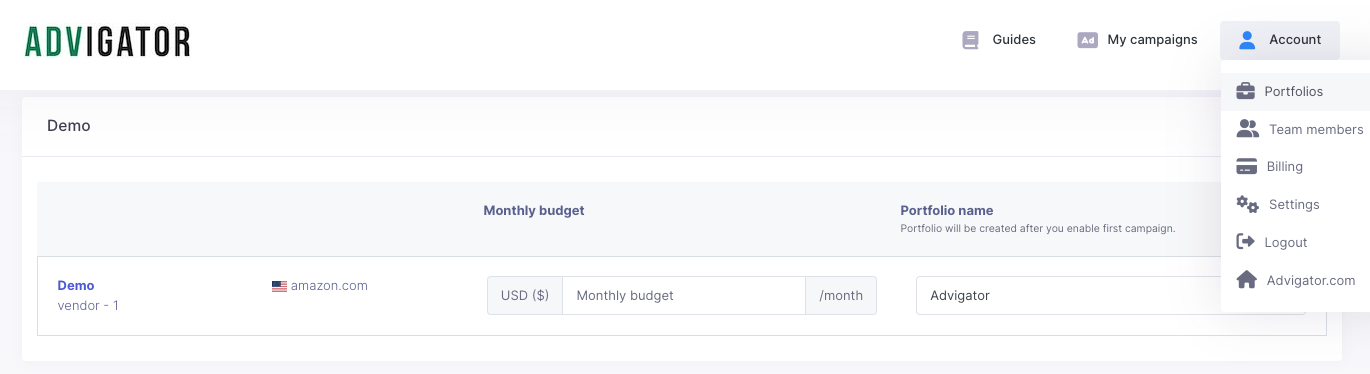
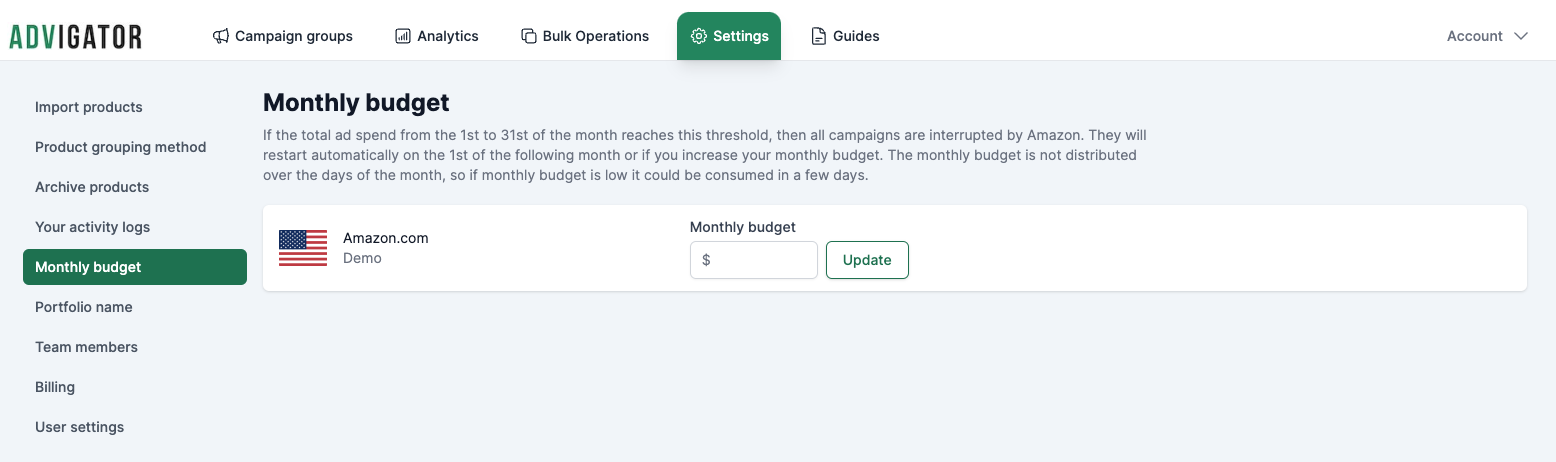
new design

diff --git a/src/components/Layout.jsx b/src/components/Layout.jsx
@@ -53,6 +53,7 @@ const navigation = [
       { title: 'No checkbox for SB', href: '/docs/faq/brand-registry' },
       { title: 'ACoS vs target ACoS', href: '/docs/faq/acos-vs-target' },
       { title: 'Miscellaneous', href: '/docs/faq/miscellaneous' },
+      { title: 'Design migration', href: '/docs/faq/design-migration' },
     ],
   },
   {

diff --git a/src/pages/docs/faq/design-migration.md b/src/pages/docs/faq/design-migration.md
@@ -1,0 +1,51 @@
+---
+title: New design guide
+---
+
+In February 2023 we redesigned the user interface (UI). Here is a guide of main changes:
+
+## Campaigns
+
+In campaigns you can change the name of the campaigns shown in Amazon and how the daily budget of the campaign group is distributed to the sub campaigns. 
+By default it is "Auto" which means it is efficiently distributed to minimize time out of budget. You may want to change it rarely and the default settings should be fine in most cases.
+
+### Before
+![Campaigns](/images/faq/redesign/old_campaigns.png) 
+
+### After
+![Campaigns](/images/faq/redesign/new_campaigns.png) 
+
+## Products
+
+Under "SKUs" you used to see the list of sponsored ASINs in the group. 
+We moved it under the product image because it was confusing to many users to see only a variant image. It wasn't clear it's a product group. The shown image is selected randomly among all products. 
+This is also rare that need to be changed. You can keep all products active. Products without inventory or ineligible do not generate traffic even if you leave them active.
+
+### Before
+![Products old](/images/faq/redesign/old_products.png) 
+
+### After
+![Products new](/images/faq/redesign/new_products.png) 
+
+
+## Sync catalog
+
+This action is for importing and updating the catalog. You should use it after you add a new product or make major changes to parent-child relationships or categories. 
+It has been moved under Settings > Imports products.
+
+### Before
+![Import old](/images/faq/redesign/old_sync.png) 
+
+### After
+![ProduImportcts new](/images/faq/redesign/new_sync.png) 
+
+
+## Creative Ads
+
+The link to create or edit a creative now appears below the activation checkbox. For example, if you activate "Sponsored Brand" or "Sponsored Display" you will see "edit creative" to upload a new image or replace a previous one.
+
+### Before
+![creative old](/images/faq/redesign/old_creative.png) 
+
+### After
+![creative new](/images/faq/redesign/new_creative.png) 

diff --git a/src/pages/docs/creative-ads/sponsored-brand.md b/src/pages/docs/creative-ads/sponsored-brand.md
@@ -13,11 +13,7 @@ This is an example of a [Sponsored Brand](https://advertising.amazon.com/en-us/s
 
 Let's start by enabling the "Sponsored Brand" format.
 
-![Activate Sponsored Brand in Advigator](/images/creative-ads/sponsored-brand/checkbox.png)
-
-then go to Creative Ads > Add Sponsored Brand
-
-![Activate Sponsored Brand creative ad in Advigator](/images/creative-ads/sponsored-brand/creative_button.png)
+![Activate Sponsored Brand in Advigator](/images/creative-ads/sponsored-brand/sb-checkbox.png)
 
 ## Select a custom image
 
@@ -25,8 +21,6 @@ Here you will be able to see lifestyle images uploaded from "Amazon Creative Ass
 You can add new images by going to {% amazon-console /%} and save them as "Lifestyle images" or by clicking on "Upload a new file." in Advigator.
 
 Click "Skip custom image" if you want to proceed without a custom image. 
-
-![Gallery](/images/creative-ads/sponsored-brand/gallery.png)
 
 ## Logo, headline and ASIN
 
@@ -37,15 +31,11 @@ The headline should be relevant with the product and image, and not use pressuri
 
 No ideas for headline? {% chrome-extension /%} and get inspiration from other similar products. 
 
-![Gallery](/images/creative-ads/sponsored-brand/headline.png)
-
 
 ## Review and send for approval
 
 Review your creative and send it for approval to Amazon. 
 The Amazon moderation team will review it within 24 hours. 
-
-![Review](/images/creative-ads/sponsored-brand/review.png)
 
 If approved, your ad creative will automatically be active in your sponsored Brand campaign, otherwise you will receive an email with the reason for rejection. 
 If rejected you will have to delete the creative and create a new one that meets Amazon Ads guidelines

diff --git a/src/pages/docs/creative-ads/sponsored-display.md b/src/pages/docs/creative-ads/sponsored-display.md
@@ -10,11 +10,8 @@ By default Amazon includes the product photo and title as the creative for your 
 
 Let's start by enabling the "Sponsored Display" format.
 
-![Gallery](/images/creative-ads/sponsored-display/checkbox.png)
+![Gallery](/images/creative-ads/sponsored-display/sd-checkbox.png)
 
-then go to Creative Ads > Add Sponsored Display
-
-![Gallery](/images/creative-ads/sponsored-display/creative_button.png)
 
 #### Step 1: Select a custom image
 
@@ -24,8 +21,6 @@ Once selected, you can crop the photo for rectangular and square sizes.
 
 If you want to continue without any custom images then click on "Skip custom image" in the upper right corner. 
 
-![Gallery](/images/creative-ads/sponsored-display/gallery.png)
-
 #### Step 2: Logo, headline and ASIN
 
 You can choose whether to include your brand logo or a headline, or both.
@@ -34,8 +29,6 @@ The headline should be relevant with the product and image, and not use pressuri
 
 No ideas for headline? {% chrome-extension /%} and get inspiration from other similar products. 
 
-![Gallery](/images/creative-ads/sponsored-display/headline.png)
-
 #### Step 3: Review and send for approval
 
 Review your creative and send it for approval to Amazon. 
@@ -43,5 +36,3 @@ The Amazon moderation team will review it within 24 hours.
 If approved, your ad creative will automatically be active in your sponsored Display campaign, otherwise you will receive an email with the reason for rejection. 
 If rejected you will have to delete the creative and create a new one that meets Amazon Ads guidelines
 
-
-![Gallery](/images/creative-ads/sponsored-display/review.png)

diff --git a/src/pages/docs/targeting.md b/src/pages/docs/targeting.md
@@ -32,11 +32,7 @@ Keep in mind that sometimes users may be interested in your product coming from 
 
 ## Add new keywords
 
-You can add new keywords in addition to those in Targeting by going to Targeting > custom.
-
-![Custom keywords](/images/targeting/custom.png)
-
-Then enter your keywords one per line
+You can add more keywords in Targeting by going to Targeting > custom targeting and enter your keywords one per line
 
 ![Custom keywords](/images/targeting/custom-keywords.png)
 
@@ -88,7 +84,7 @@ Bids are staggered downward. So phrase matching has a lower bid than exact, and 
 
 If for what reason you don't want to have phrase or broad matches then uncheck from Targeting > Settings > match types.
 
-![Targeting settings match type](/images/targeting/match_type.png)
+![Targeting settings match type](/images/targeting/match-type.png)
 
 ### Dynamic expression and keyword research
 
@@ -110,4 +106,4 @@ For example, if the campaigns group promote products A, B, C then we read data f
 
 However, if you are absolutely certain that this campaign promotes an identical product (e.g., the previous version that changed the parent asin) then you can manually tell it to read its historical data.
 
-![Targeting settings campaigns data](/images/targeting/campaigns_data.png)
+![Targeting settings campaigns data](/images/targeting/campaigns-data.png)

diff --git a/src/pages/docs/analytics.md b/src/pages/docs/analytics.md
@@ -32,7 +32,7 @@ The Sponsored Products (SP) Auto campaign, and all keyword as phrase/broad match
 
 For example, the keyword "iphone cover" as phrase match reaches consumers searching for _iphone cover red_ or _waterproof iphone cover._  
 These new search terms may not be in Targeting because they have not yet led to orders (or low CTR) but have generated spend so far. 
-If you want to isolate them, go to _custom > new search terms_
+If you want to isolate them, go to _filter > only SP AUTO + Phrase/Broad_
 
 ![Analytics new search term](/images/analytics/new-search-terms.png)
 
@@ -43,9 +43,4 @@ Here the most common action is to look for keywords or subwords that are not rel
 You may be tempted to exclude keywords that have not led to orders or that have a high ACoS. Don't do it. For these keywords Advigator has already reduced the bid per click. 
 Just ask yourself if the consumer who is searching for that search term might actually want your product.
 
-### Search terms excluded by negative keywords
-
-With this filter, you see all the search terms that have generated clicks in the past and will henceforth be excluded from the negative keywords you have entered.
-
-![Analytics excluded search term](/images/analytics/excluded-terms.png)
 

diff --git a/src/pages/docs/bulk-operations.md b/src/pages/docs/bulk-operations.md
@@ -6,21 +6,19 @@ Bulk operations allow you to apply the same change to multiple campaign groups a
 
 ---
 
-![Bulk operations](/images/bulk-operations/button.png)
-
 ## Enabling all products in a category
 
 1. Choose products by category, brand or title
 2. Check off the products you are interested in
 3. Go to State, check _enable_ and confirm
 
-![Bulk operations state](/images/bulk-operations/state.gif)
+![Bulk operations state](/images/bulk-operations/bulk-operations.png)
 
 You can do the same to pause, change the budget or target ACoS etc..
 
 ## Negative keywords to multiple products
 
-![Bulk operations negative](/images/bulk-operations/negative.gif)
+![Bulk operations negative](/images/bulk-operations/negative-targeting.png)
 
 1. Choose products by category, brand or title
 2. Check off the products you are interested in

diff --git a/src/pages/docs/faq/acos-vs-target.md b/src/pages/docs/faq/acos-vs-target.md
@@ -31,8 +31,6 @@ You may have entered keywords that are not relevant to your product because they
 If the product is new, and there are no keywords in the Targeting section, then it makes sense to add 3-4 keywords to start. Check that the keywords you add actually relate to your product. Try to simulate a search on Amazon, you should expect search results like your product. 
 Avoid adding keywords that refer to complementary products if you want to focus on ACoS (sales efficiency). 
 
-![custom keywords](/images/faq/acos/custom_keywords.png)
-
 ## Custom keywords with fixed bid
 
 If you add custom keywords with a fixed bid you need to know that Advigator will never go to change that bid because it prioritizes your actions. 

diff --git a/src/pages/docs/getting-started/start.md b/src/pages/docs/getting-started/start.md
@@ -8,7 +8,7 @@ You manage activation, budget, and keywords at the group level, and Advigator wi
 
 By default, variations of a product are grouped in the same "Campaign Group." You can change this setting, but it is the recommended one in most cases.
 
-![Campaign group](/images/getting-started/item_groups_text.png)
+![Campaign group](/images/getting-started/item_groups.png)
 
 ## Start campaign group
 
